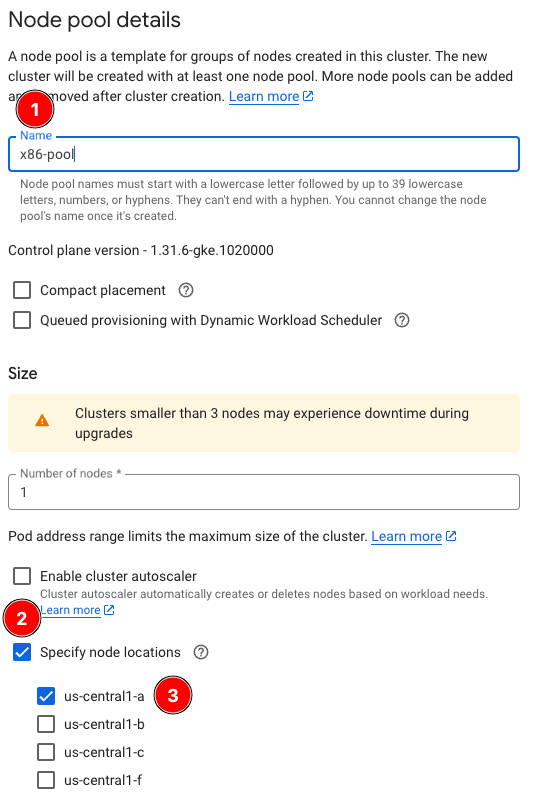
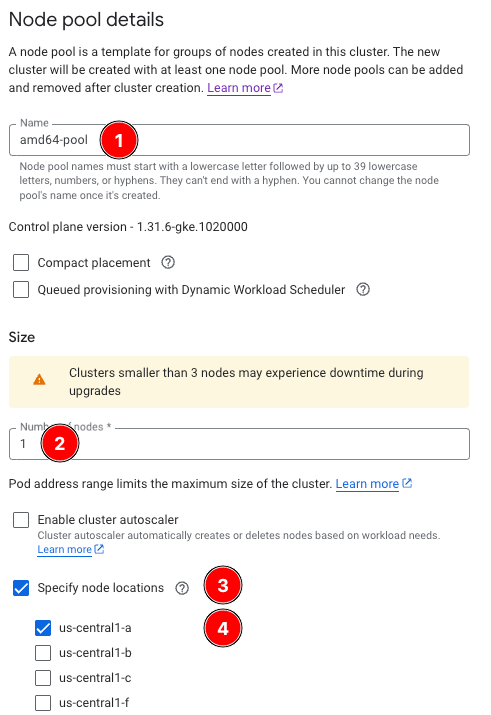
typos, updated images

Changed region(s): [[0.0, 0.4615, 0.9776, 1.0], [0.0, 0.0, 0.9776, 0.4308], [0.7332, 0.3692, 0.7637, 0.4308]]

diff --git a/content/learning-paths/servers-and-cloud-computing/multiarch_ollama_on_gke/_index.md b/content/learning-paths/servers-and-cloud-computing/multiarch_ollama_on_gke/_index.md
@@ -1,18 +1,19 @@
 ---
-title: Run ollama on both arm64 and amd64 nodes, using the same multi-architecture container image on GKE.
+title: Run Ollama's multi-arch container image on GKE with arm64 and amd64 nodes. 
 
 minutes_to_complete: 30
 
-who_is_this_for:  This learning path will show you how easy it is to migrate from homogenous amd64 k8s clusters, to a hybrid (arm64 and amd64) cluster with multi-architectural container images on GKE.  Demonstrated with the ollama application, you'll see for yourself the price/performance advantages of running on arm64. Although tutorial will be GKE-specific with ollama, the provided YAML can act as a template for deployment on any on any multi-architectural application and cloud.
+who_is_this_for:  This learning path will show you how easy it is to migrate from homogenous amd64 k8s clusters, to a hybrid (arm64 and amd64) cluster with multi-architectural container images on GKE.  Demonstrated with the ollama application, you'll see for yourself the price/performance advantages of running on arm64. Although tutorial will be GKE-specific with Ollama, the provided YAML can act as a template for deployment on any workload on any cloud.
 
 
 learning_objectives:
   - Spin up a GKE cluster with amd64 and arm64 nodes.
-  - Apply ollama amd64-based and arm64-based Deployments and Services using the same container image.
+  - Apply Ollama amd64-based and arm64-based Deployments and Services using the same container image.
   - Ping, pull models, and make inferences to experience each architectures' performance first-hand.
   - Experiment further on your own by researching which existing, and future workloads could benefit most from single, or multi-architectural clusters.
 
 prerequisites:
+
     - A [Google Cloud account](https://console.cloud.google.com/).
     - A computer with [Google Cloud CLI](/install-guides/gcloud) and [kubectl](/install-guides/kubectl/) installed.
     - The [GKE Cloud Plugin](https://cloud.google.com/kubernetes-engine/docs/how-to/cluster-access-for-kubectl#gcloud)
